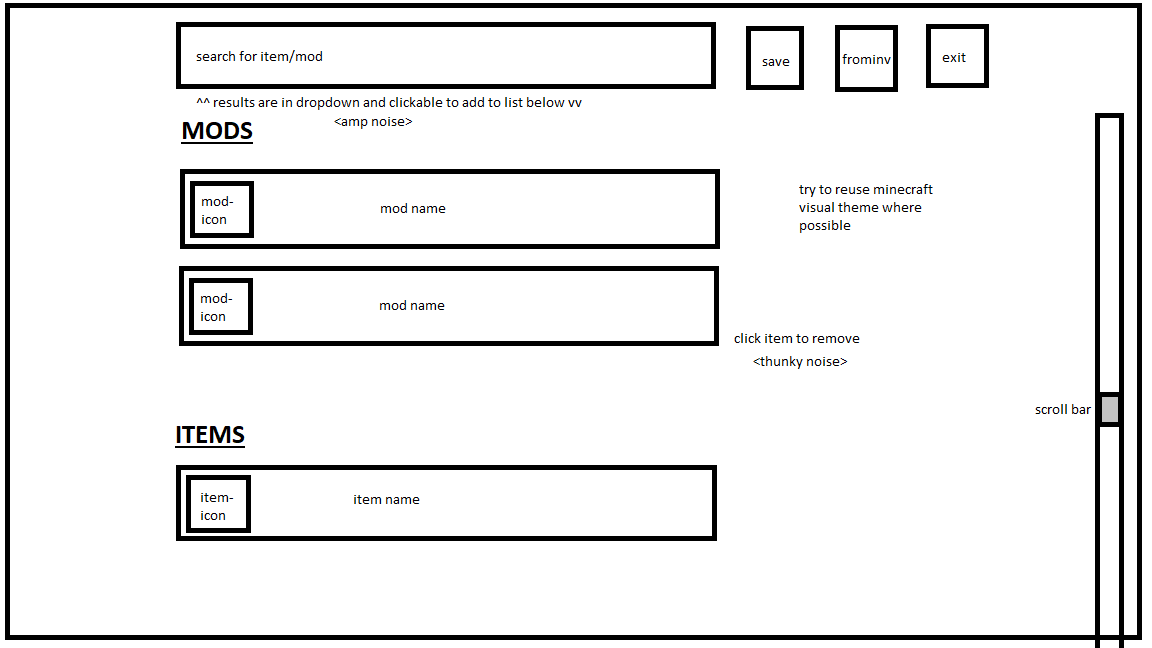
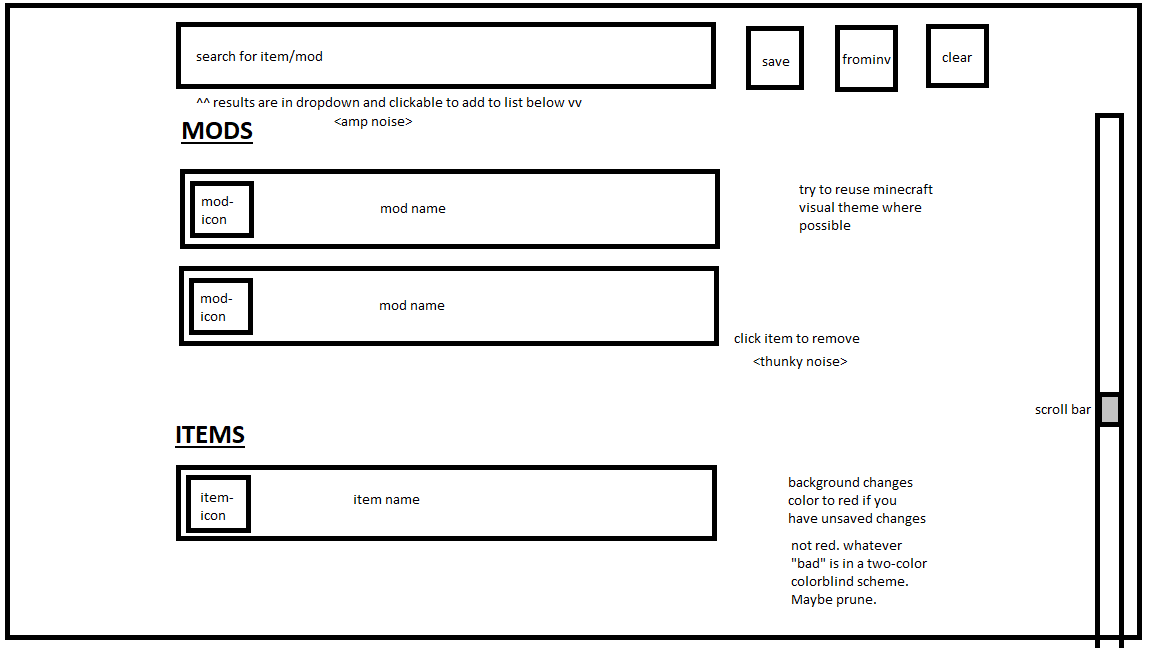
Just shuffling buttons around and removing one.

Changed region(s): [[0.6875, 0.7407, 0.8125, 0.9568], [0.8125, 0.0617, 0.8438, 0.0926]]

diff --git a/src/main/java/bike/guyona/exdepot/client/gui/DepotRulesScreen.java b/src/main/java/bike/guyona/exdepot/client/gui/DepotRulesScreen.java
@@ -27,7 +27,6 @@ public class DepotRulesScreen extends Screen {
     private IDepotCapability depotRules;
 
     private EditBox searchField;
-    private ImageButton allItemsToggle;
     private ImageButton ezConfigButton;
     private ImageButton saveConfigButton;
     private ImageButton clearConfigButton;
@@ -52,13 +51,6 @@ public class DepotRulesScreen extends Screen {
         this.setFocused(searchField);
         searchField.setFocus(true);
         // Create my buttons
-        clearConfigButton = new ExDepotImageButton(
-                xOffset, yOffset, ExDepotImageButton.FLOPPY_DISK_BIDX,
-                (button) -> {},
-                Component.translatable("exdepot.gui.depotrules.tooltip.clear"),
-                this
-        );
-        xOffset += MIN_ELEMENT_SEPARATION + clearConfigButton.getWidth();
         saveConfigButton = new ExDepotImageButton(
                 xOffset, yOffset, ExDepotImageButton.FLOPPY_DISK_BIDX,
                 (button) -> {},
@@ -73,10 +65,10 @@ public class DepotRulesScreen extends Screen {
                 this
         );
         xOffset += MIN_ELEMENT_SEPARATION + ezConfigButton.getWidth();
-        allItemsToggle = new ExDepotImageButton(
-                xOffset, yOffset, ExDepotImageButton.CHECKBOX_YES_ASTERISK_BIDX,
+        clearConfigButton = new ExDepotImageButton(
+                xOffset, yOffset, ExDepotImageButton.FLOPPY_DISK_BIDX,
                 (button) -> {},
-                Component.translatable("exdepot.gui.depotrules.tooltip.allitems"),
+                Component.translatable("exdepot.gui.depotrules.tooltip.clear"),
                 this
         );
         xOffset = MIN_ELEMENT_SEPARATION;
@@ -93,10 +85,9 @@ public class DepotRulesScreen extends Screen {
         rulesBox.dummyInit();
 
         this.addRenderableWidget(searchField);
-        this.addRenderableWidget(clearConfigButton);
         this.addRenderableWidget(saveConfigButton);
         this.addRenderableWidget(ezConfigButton);
-        this.addRenderableWidget(allItemsToggle);
+        this.addRenderableWidget(clearConfigButton);
         this.addRenderableWidget(rulesBox);
     }
 
